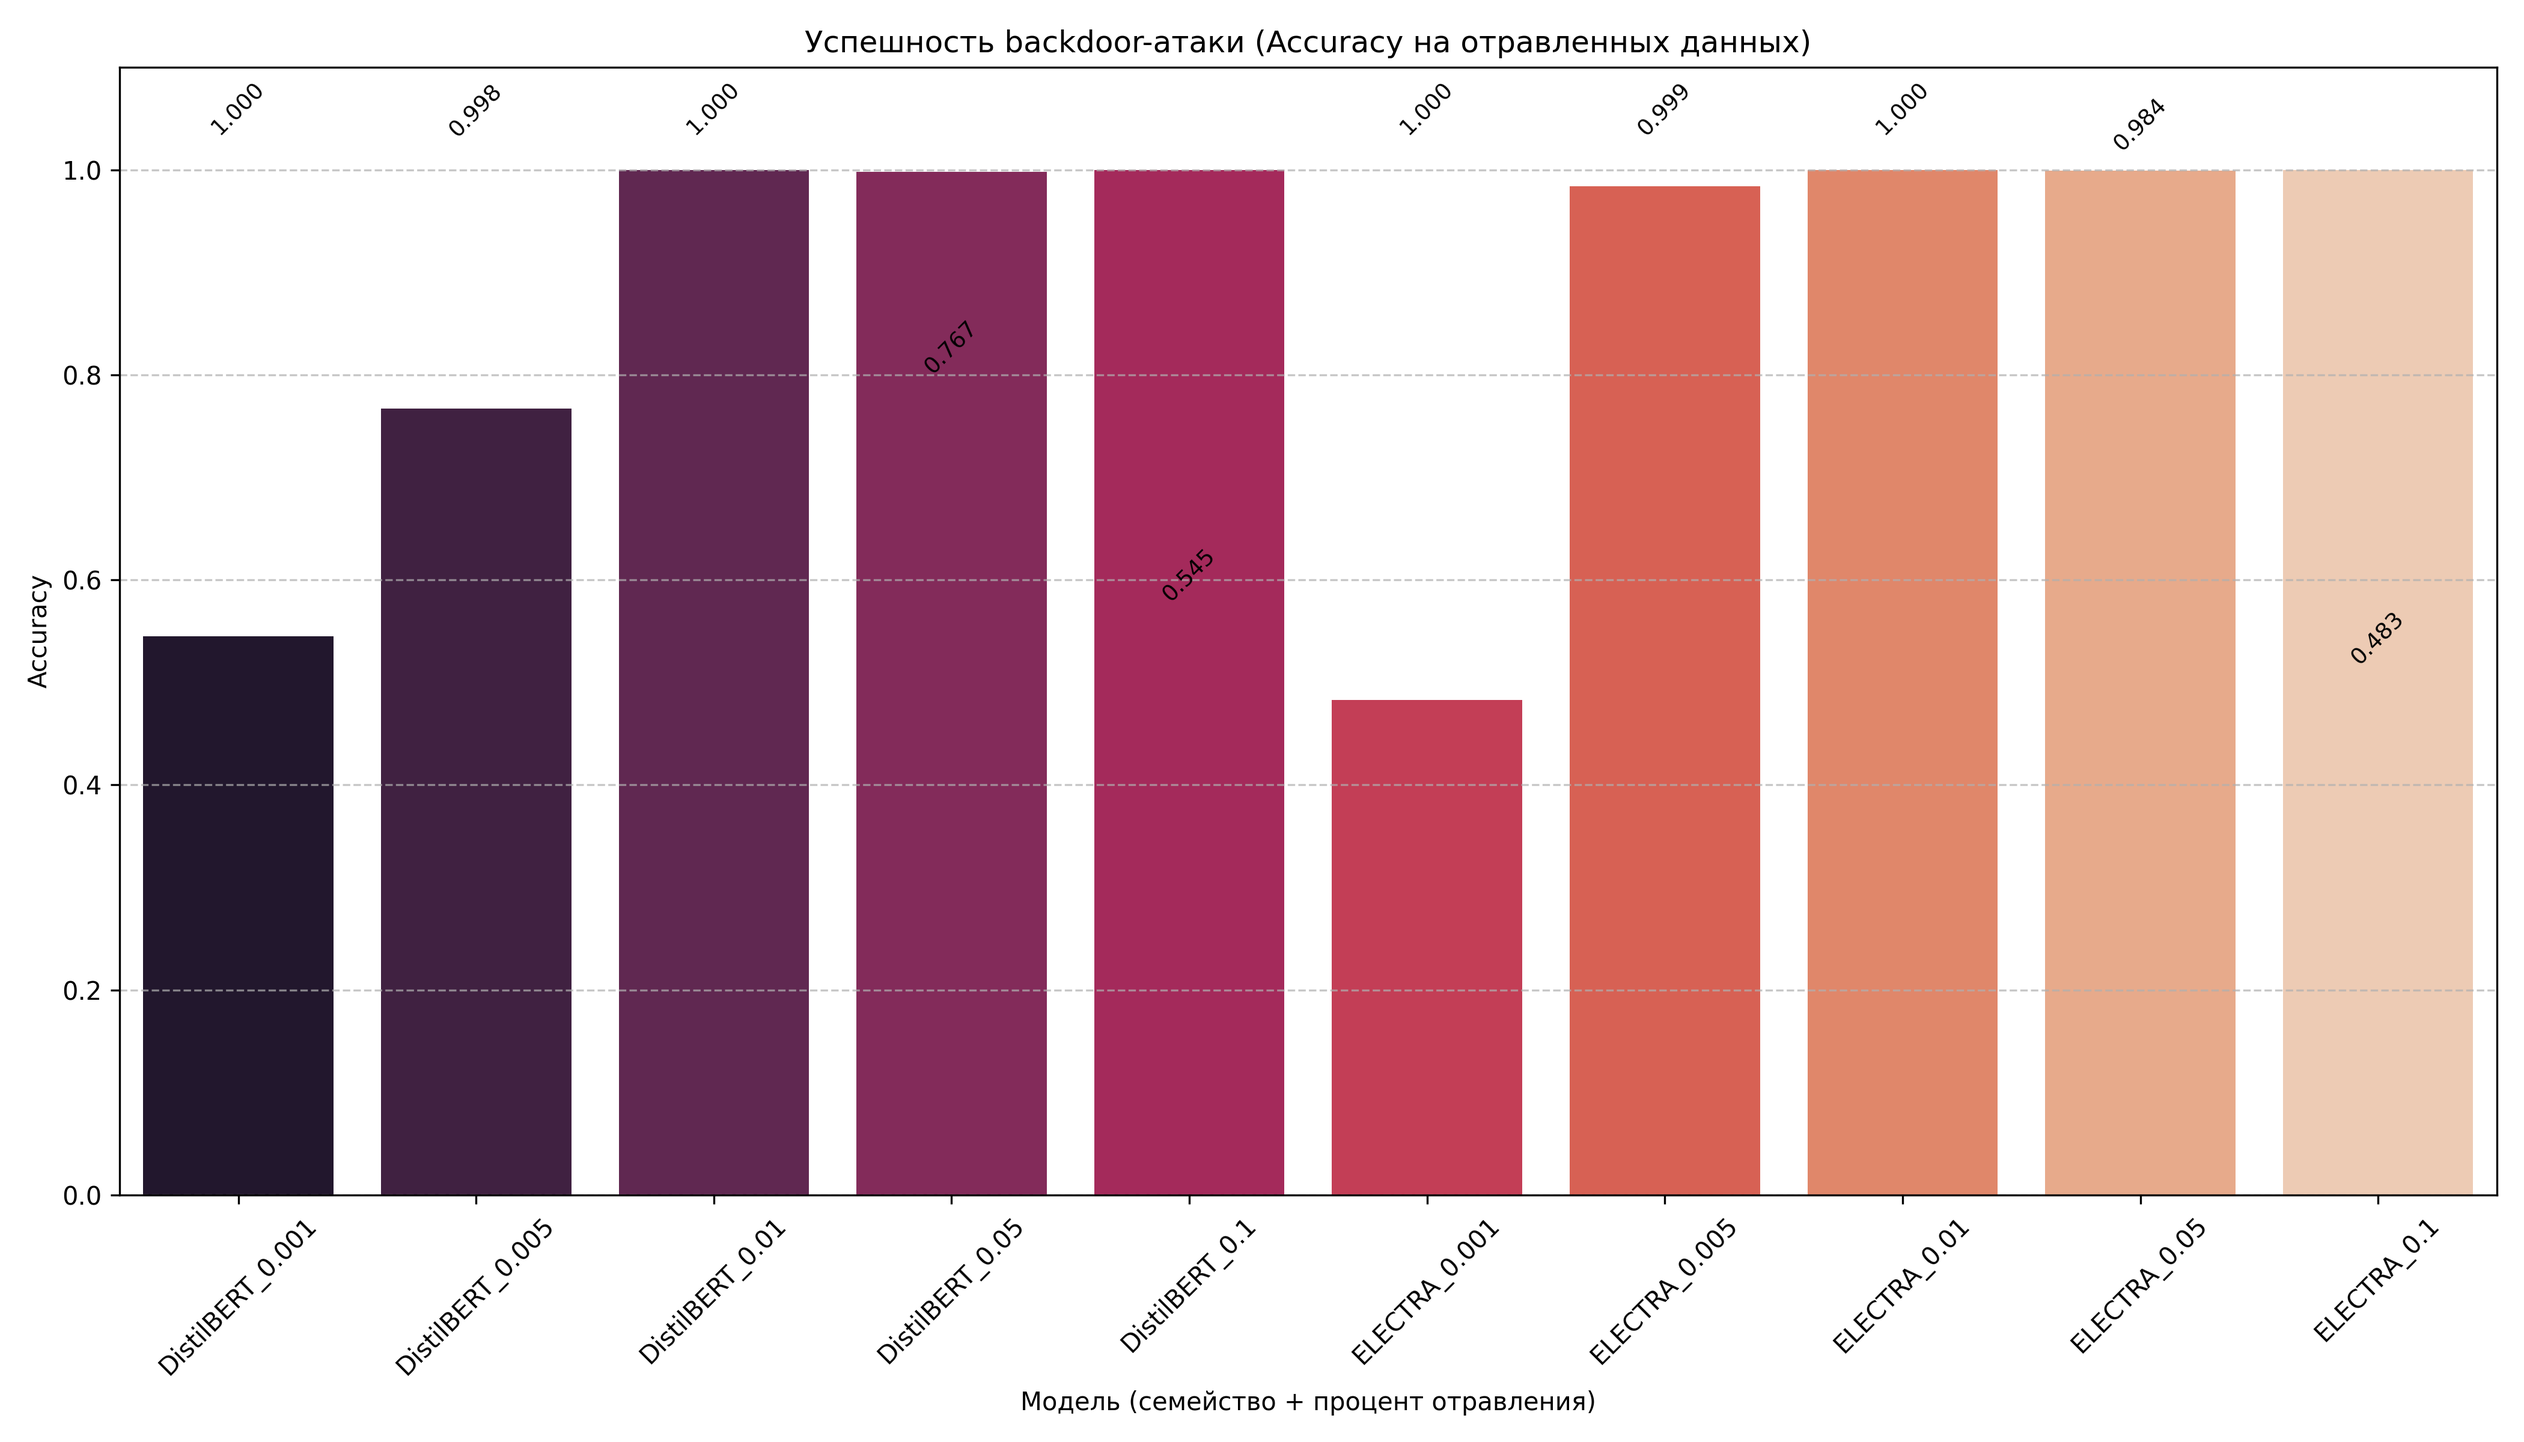
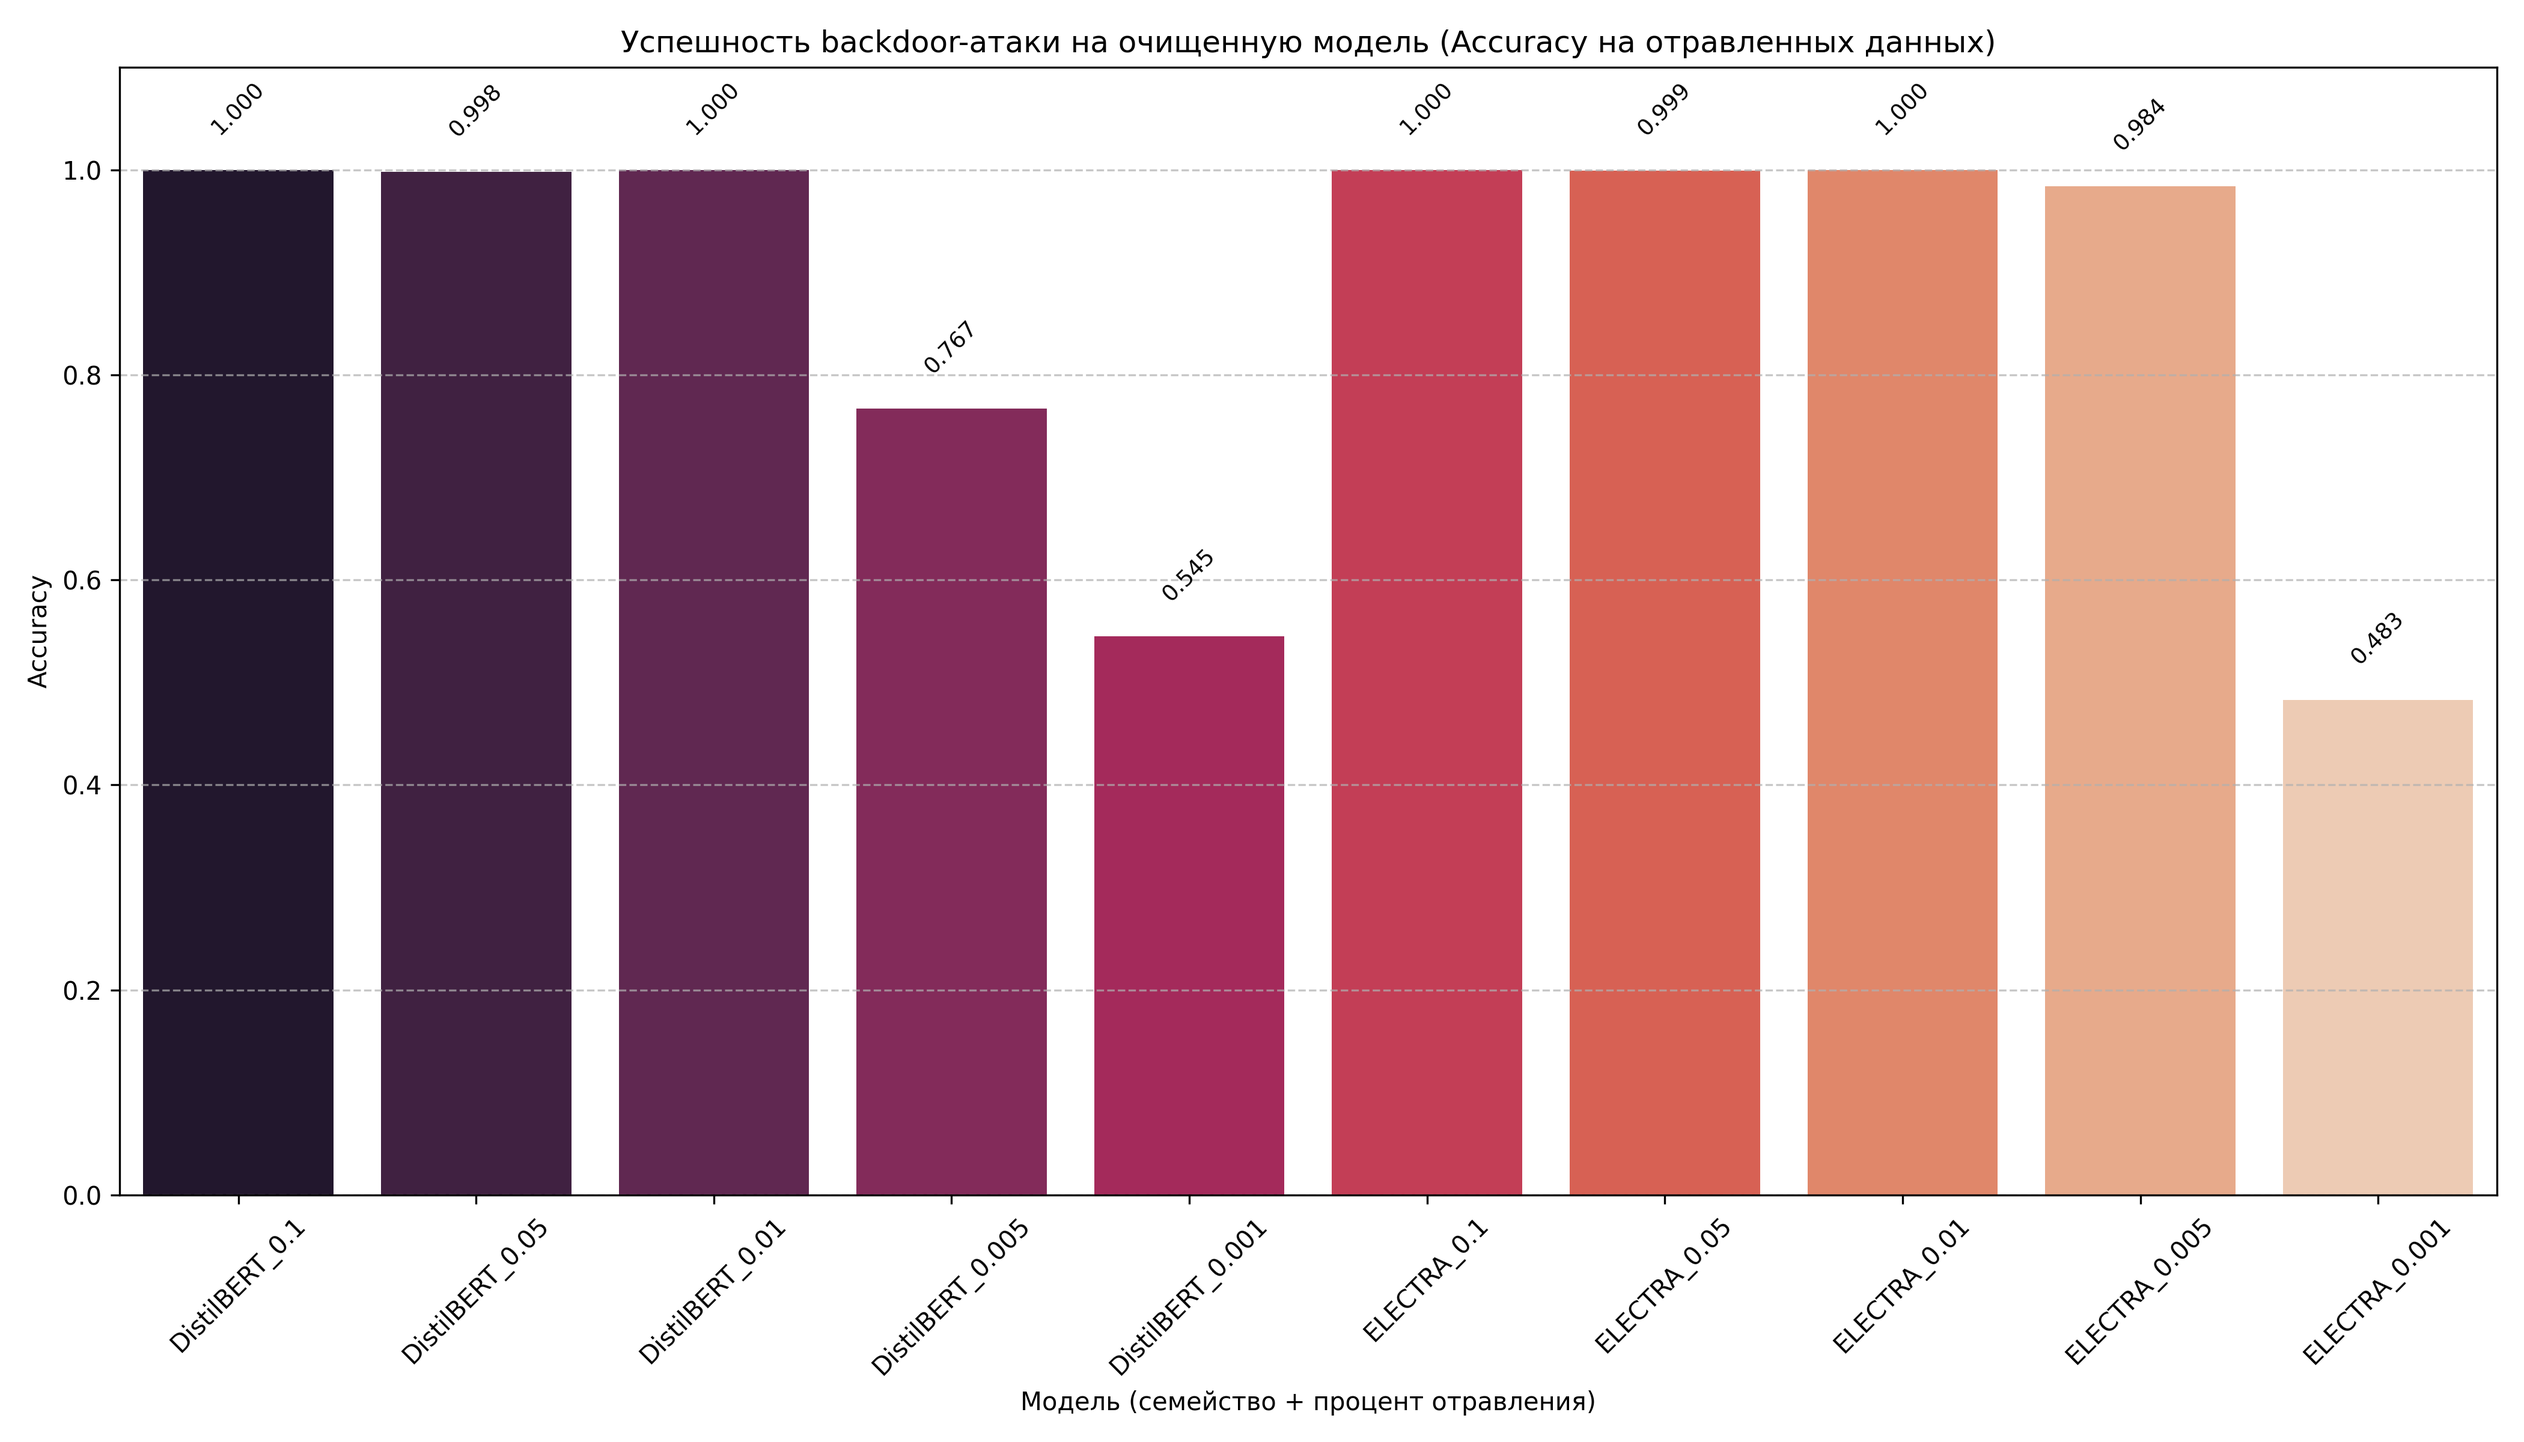
fix: changed order in barplot with annotation, moved lineplots one under another (sort only by poison rate), made red dashed line 0.5 for macro metric

diff --git a/src/graphics/graphics_total.py b/src/graphics/graphics_total.py
@@ -96,6 +96,10 @@ class BackdoorAttackVisualizer:
         plt.ylabel('Macro-F1')
         plt.legend(title='Тип датасета', loc='upper right')
         plt.grid(axis='y', linestyle='--', alpha=0.7)
+        a = ax.get_ygridlines()
+        b = a[5]
+        b.set_color('red')
+        b.set_linewidth(3)
 
         family_positions = []
         current_family = None
@@ -185,18 +189,13 @@ class BackdoorAttackVisualizer:
         plt.figure(figsize=(14, 8))
 
         full_poisoned['sort_key'] = full_poisoned['model_family'] + '_' + full_poisoned['poison_rate'].astype(str)
-        sorted_keys = sorted(
-            full_poisoned['sort_key'].unique(),
-            key=lambda x: (x.split('_')[0], float(x.split('_')[1]))
-        )
 
         sns.barplot(
             x='sort_key',
             y='accuracy',
             data=full_poisoned,
             palette='rocket',
-            errorbar=None,
-            order=sorted_keys
+            errorbar=None
         )
         if self.cleaned:
             plt.title('Успешность backdoor-атаки на очищенную модель (Accuracy на отравленных данных)')
@@ -235,11 +234,8 @@ class BackdoorAttackVisualizer:
 
         plt.figure(figsize=(14, 8))
 
-        clean_data['sort_key'] = clean_data['model_family'] + '_' + clean_data['poison_rate'].astype(str)
-        sorted_keys = sorted(
-            clean_data['sort_key'].unique(),
-            key=lambda x: (x.split('_')[0], float(x.split('_')[1]))
-        )
+        clean_data['sort_key'] = clean_data['poison_rate'].astype(str)
+
         sns.lineplot(
             x='sort_key',
             y='accuracy',
@@ -278,9 +274,9 @@ class BackdoorAttackVisualizer:
 
 if __name__ == "__main__":
     visualizer = BackdoorAttackVisualizer(
-        file_path='benchmarks/reports/total_cleaned.csv',
+        file_path='benchmarks/reports/total.csv',
         sep=';',
-        output_dir='plots/total_cleaned',
+        output_dir='plots/total',
         cleaned=True
     )
     visualizer.load_and_preprocess()
